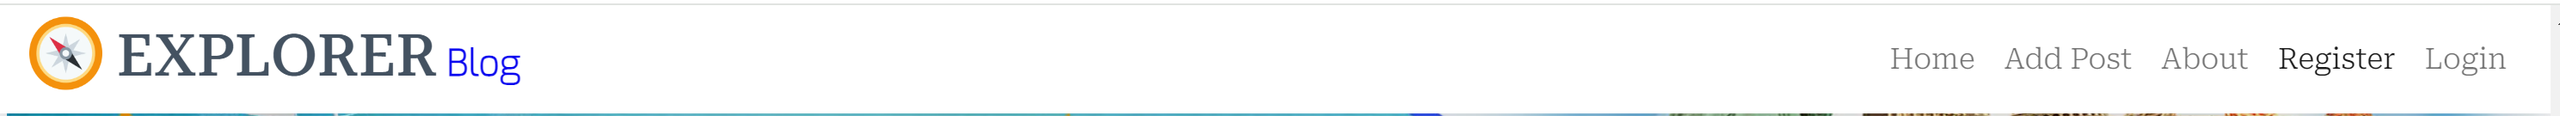
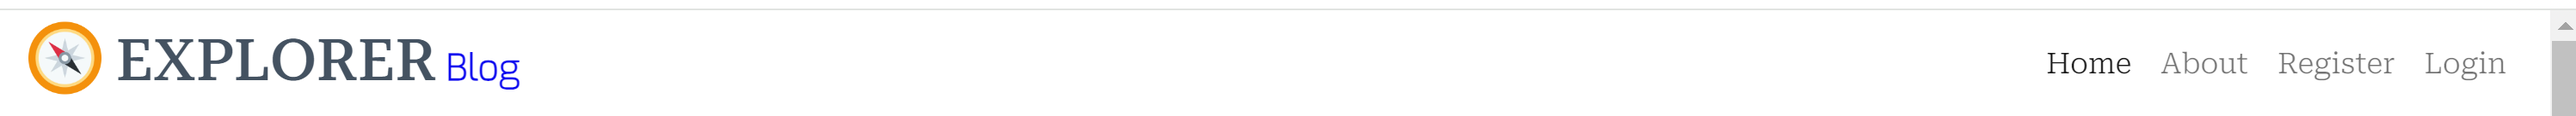
add updated images to site features in readme

diff --git a/README.md b/README.md
@@ -359,6 +359,7 @@ Custom Error Pages were created to give the user more information on the error a
 **Navigation Bar**
 
 ![header](docs/images/navbar.png)
+![header](docs/images/navbar2.png)
 - The navigation bar is present at the top of every page and includes all links to the various other pages.
 - The  navigation link is a drop down menu which includes the Sign up and Log in links. 
 
@@ -377,7 +378,7 @@ Custom Error Pages were created to give the user more information on the error a
 ### Home Page
 
 
-![header](docs/images/landing.png)
+![header](docs/images/home.png)
 
 - The home page includes an attractive banner section which encourages the user to sign up to the site with the message "let's discover the world!" and an image of famous Travel destinations.
 - The navbar includes a sign up button which takes the user to the sign up page.
@@ -408,12 +409,22 @@ Custom Error Pages were created to give the user more information on the error a
 
 ###  Posts Pages
 
-![header](docs/images/posts1.png) ![header](docs/images/posts.png)
+![header](docs/images/posts.png) ![header](docs/images/posts2.png)
 
 - The landing  page displays 6 Posts with images and title and few lines of details. with a status of published with the most recent posts displayed first.
 - The Post cards are paginated after every 6 Posts. 
 - Each card displays the Post image, Title and Author name and created date. 
 - Clicking anywhere inside the post card or Read more button will take you directly to that posts's detailed page.
+
+### My Posts Page
+
+![header](docs/images/myposts.png)
+
+- This page displays all Posts which the logged in user has created.
+- The Post cards are paginated after every 6 Posts. 
+- Each card displays the Post's image, Title and short description. 
+- Clicking on the Read More Button on the bottom of the card will take you directly to that Posts's detailed page.
+
 
 ### Post Detail Page
 
@@ -450,7 +461,7 @@ Custom Error Pages were created to give the user more information on the error a
 
 ### Update Post Form
 
-![header](docs/images/updatepost.png) ![header](docs/images/postupdated.png) 
+![header](docs/images/postupdate.png) ![header](docs/images/postupdated.png) 
 
 - If the user is logged in and is the author or the Post they can choose to edit the Post by clicking the edit button on the Post detail page. 
 - The form opens with all fields populated with the original content.
@@ -459,7 +470,7 @@ Custom Error Pages were created to give the user more information on the error a
 
 ### Delete Post
 
- ![header](docs/images/deletepost.png) ![header](docs/images/deletepost2.png)
+ ![header](docs/images/postdelete.png) ![header](docs/images/postupdated.png)
 
 - If the user is logged in and is the author or the post they can choose to delete the Post by clicking the delete button on the Post detail page.  
 - The user is asked to confirm if they wish to delete the Post or cancel.
